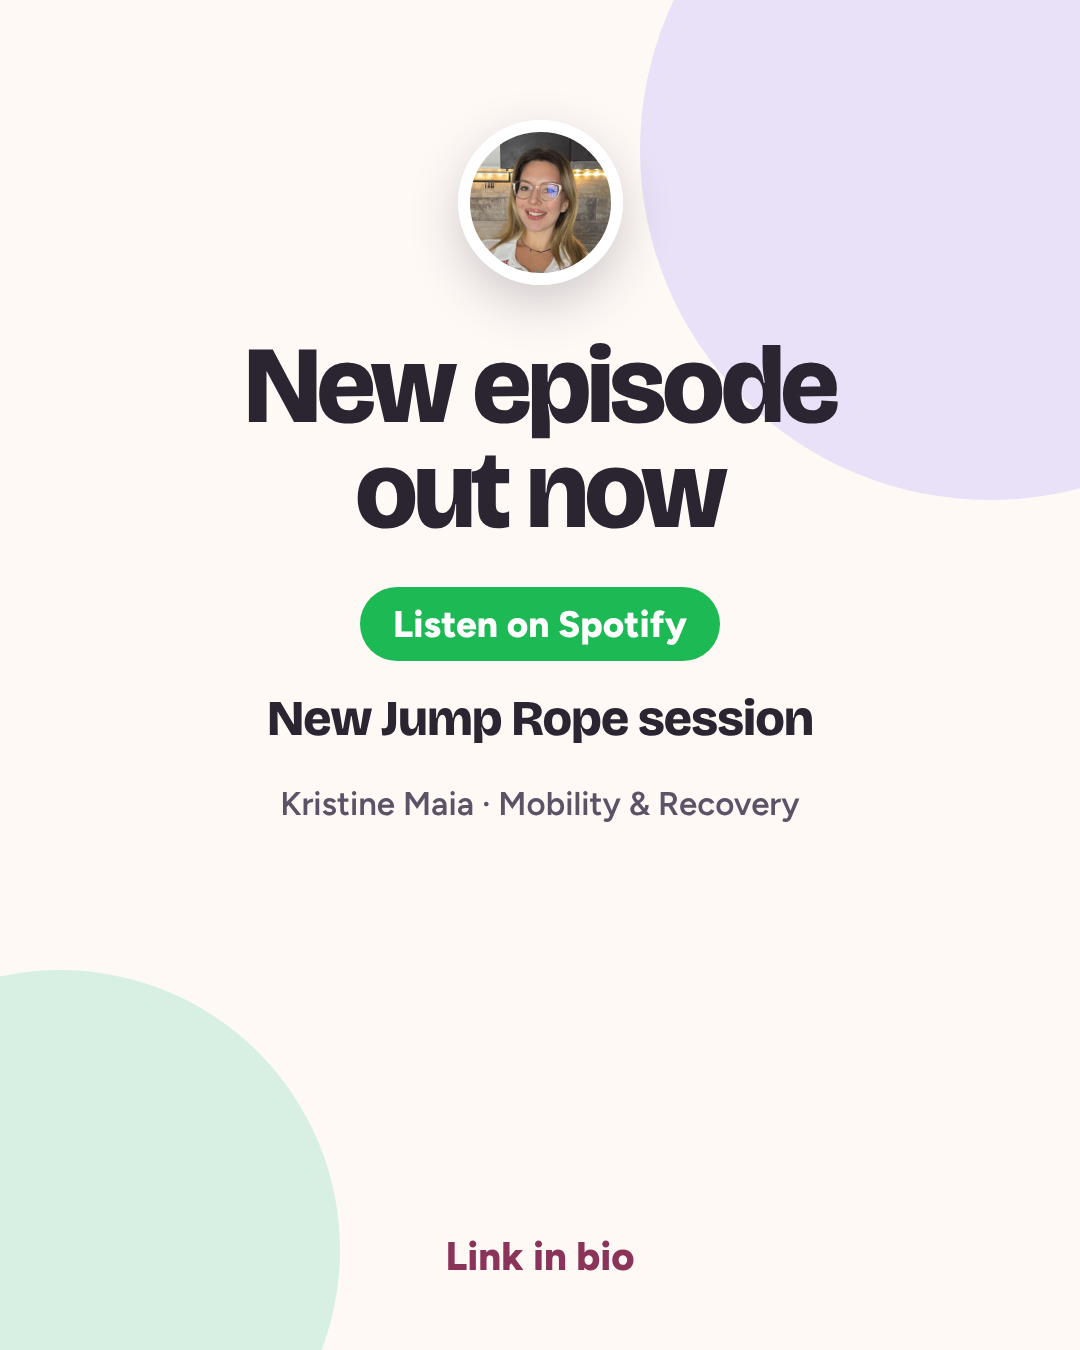
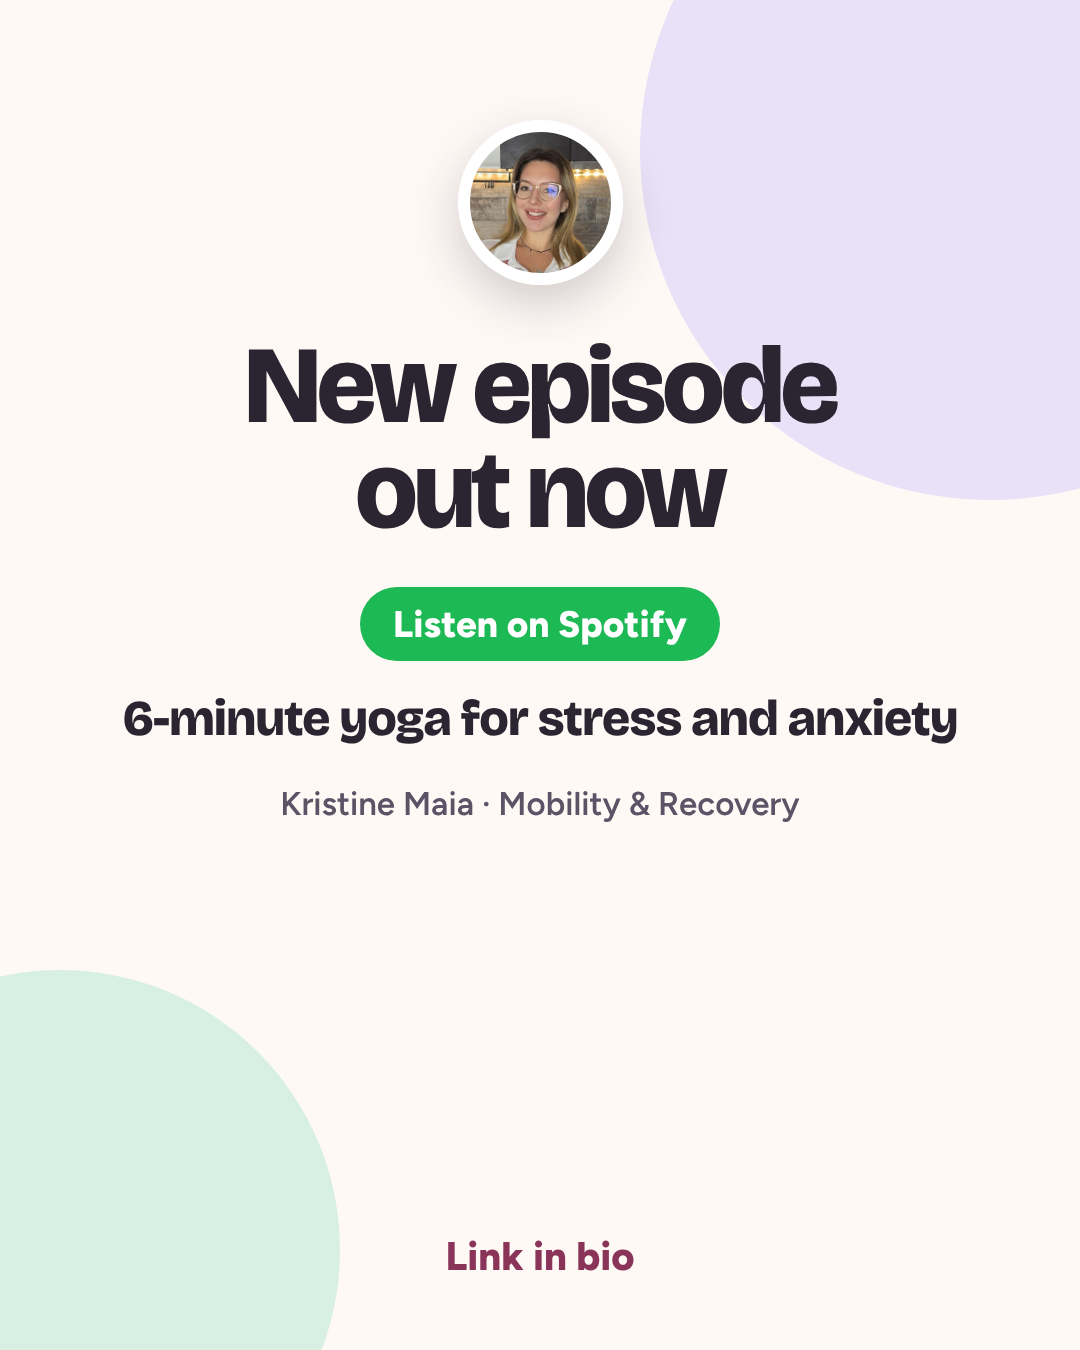
Story Spotify: yoga 6 minute
Claude-Session: https://claude.ai/code/session_01AYCYtwFQ1HqKG8gwud9c92

Changed region(s): [[0.1222, 0.4978, 0.8861, 0.56]]

diff --git a/brand/stories/build_spotify.py b/brand/stories/build_spotify.py
@@ -29,7 +29,8 @@ STORY = ('<div class="s" style="width:1080px;height:1920px">'
          '<div class="b" style="width:760px;height:760px;background:var(--lilac);right:-300px;top:-220px"></div>'
          '<div class="b" style="width:640px;height:640px;background:var(--pink);left:-260px;bottom:-200px"></div>'
          + content(1080, 300, 128, 54) +
-         '<div style="position:absolute;left:0;right:0;top:1330px;font-size:130px;color:var(--berry);line-height:1">↓</div></div>')
+         '<div style="position:absolute;left:0;right:0;top:1330px;font-size:130px;color:var(--berry);line-height:1">↓</div>'
+         + ('<div style="position:absolute;left:90px;right:90px;top:1500px;font-size:28px;font-weight:600;color:var(--muted)">General wellness, not medical advice.</div>' if title else '') + '</div>')
 POST = ('<div class="s" style="width:1080px;height:1350px">'
         '<div class="b" style="width:700px;height:700px;background:var(--lilac);right:-260px;top:-200px"></div>'
         '<div class="b" style="width:560px;height:560px;background:var(--mint);left:-220px;bottom:-180px"></div>'
